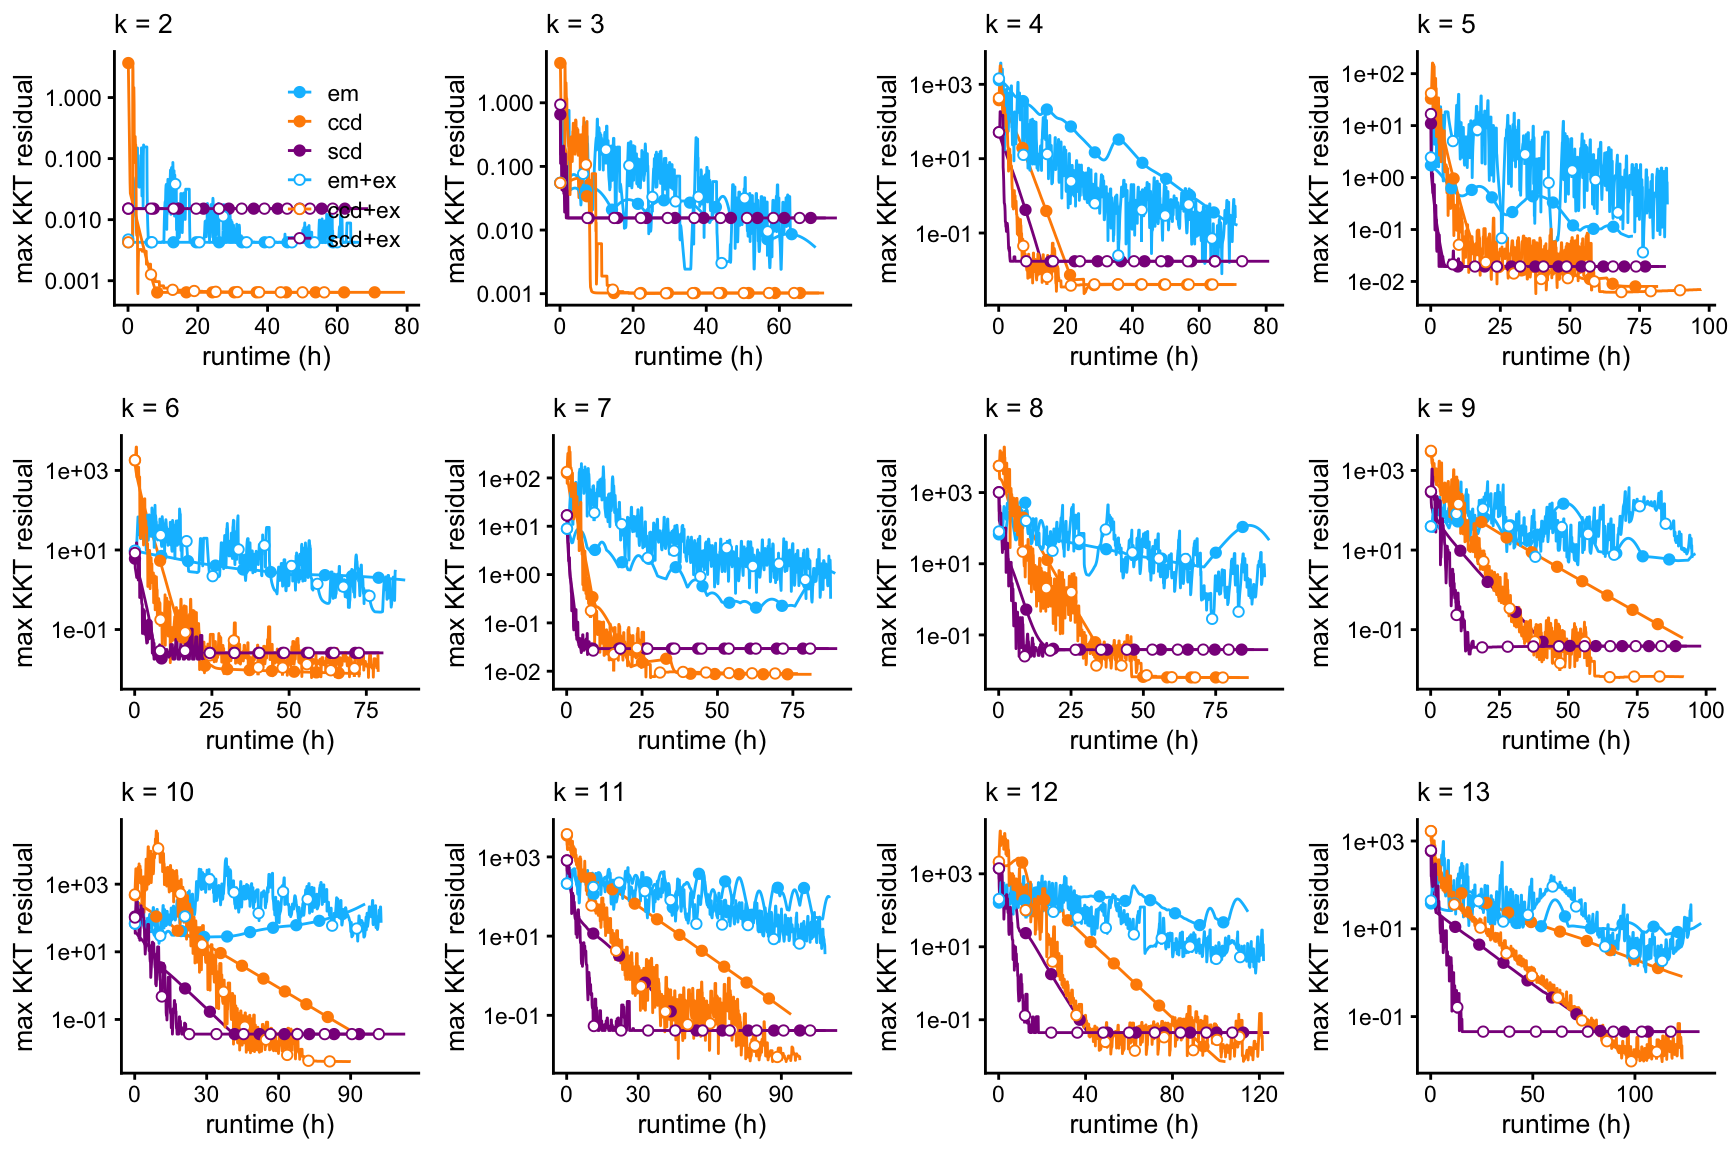
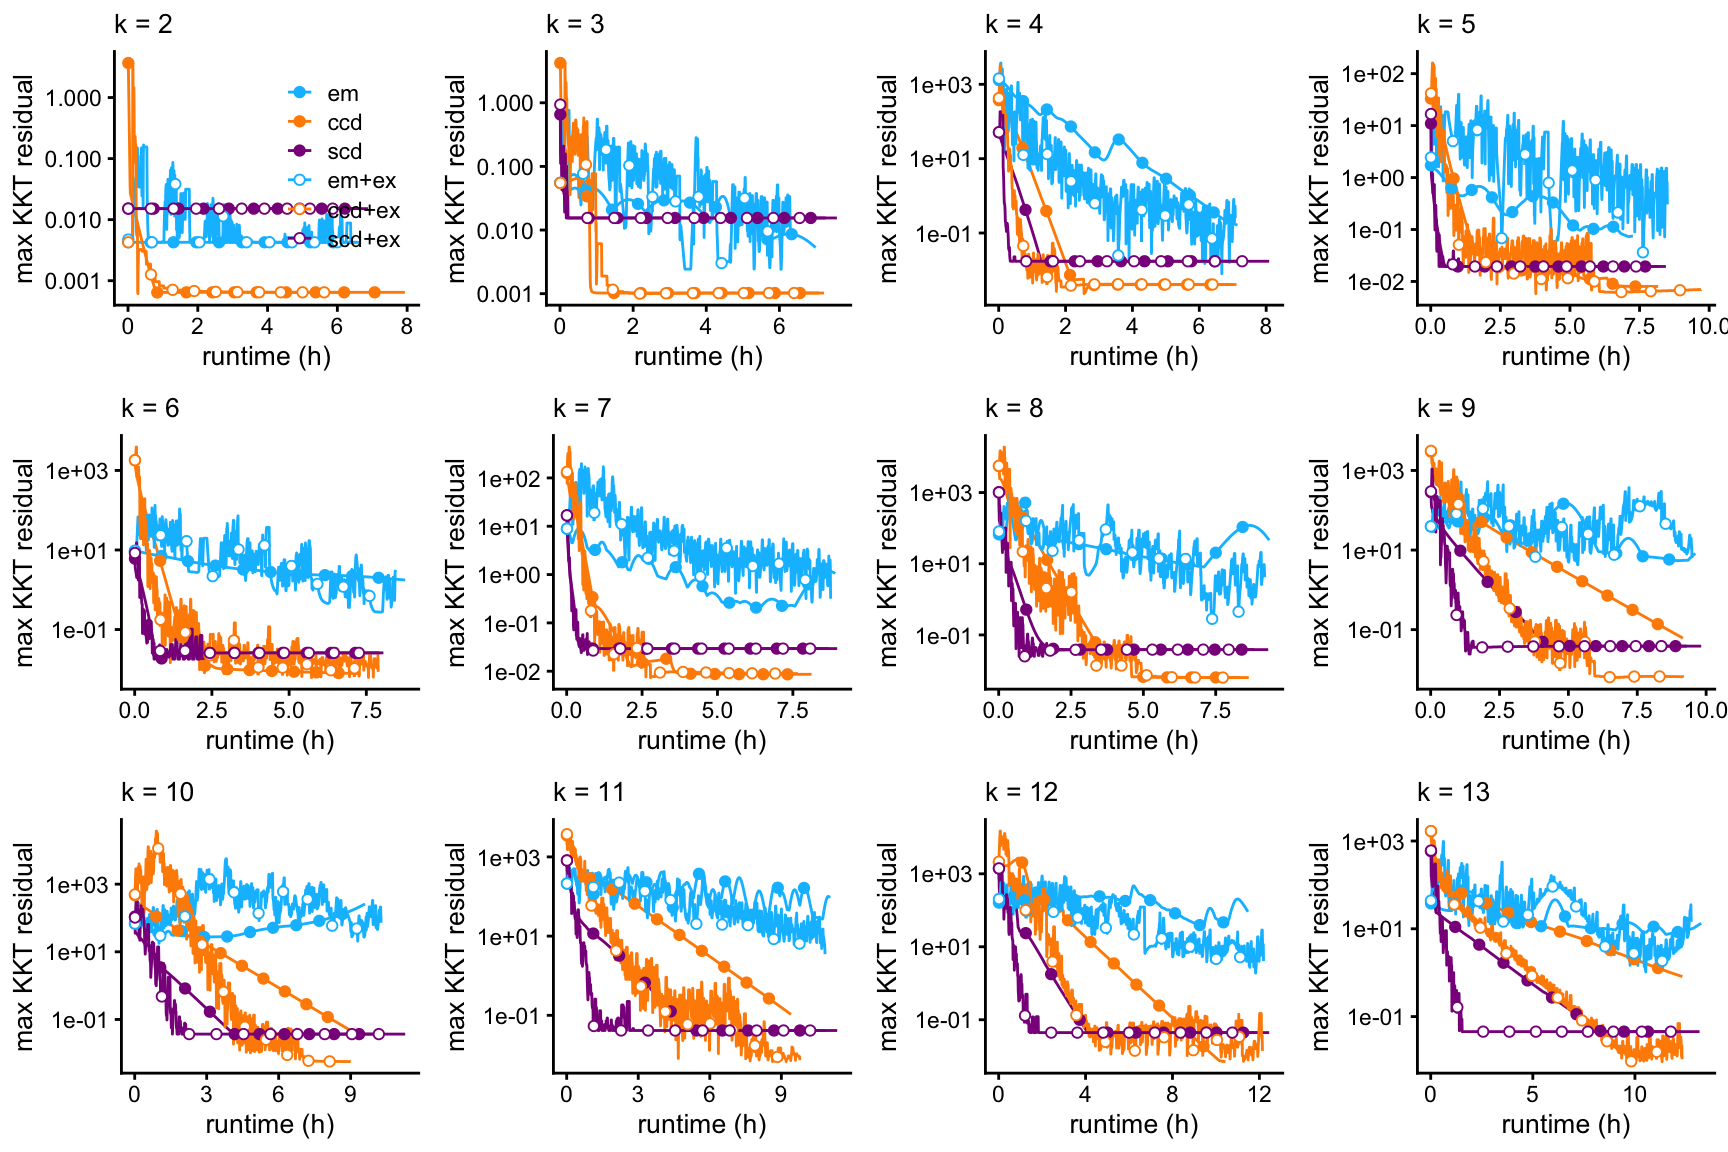
Re-ran assess_fits_pulseseq analysis with fix to timings reported in X axes.

diff --git a/docs/assess_fits_pulseseq.html b/docs/assess_fits_pulseseq.html
@@ -285,7 +285,9 @@ $(document).ready(function () {
 </li>
       </ul>
       <ul class="nav navbar-nav navbar-right">
-        
+        <li>
+  <a href="https://github.com/stephenslab/single-cell-topics">source</a>
+</li>
       </ul>
     </div><!--/.nav-collapse -->
   </div><!--/.container -->
@@ -321,7 +323,7 @@ $(document).ready(function () {
 <div class="tab-content">
 <div id="summary" class="tab-pane fade in active">
 <p>
-<strong>Last updated:</strong> 2020-08-10
+<strong>Last updated:</strong> 2020-08-31
 </p>
 <p>
 <strong>Checks:</strong> <span class="glyphicon glyphicon-ok text-success" aria-hidden="true"></span> 7 <span class="glyphicon glyphicon-exclamation-sign text-danger" aria-hidden="true"></span> 0
@@ -412,26 +414,38 @@ This reproducible <a href="http://rmarkdown.rstudio.com">R Markdown</a> analysis
 <div class="panel panel-default">
 <div class="panel-heading">
 <p class="panel-title">
-<a data-toggle="collapse" data-parent="#workflowr-checks" href="#strongRepositoryversionstrongahrefhttpsgithubcomstephenslabsinglecelltopicstree3b6d17f75b60b52eced52744b4193b93655034fdtargetblank3b6d17fa"> <span class="glyphicon glyphicon-ok text-success" aria-hidden="true"></span> <strong>Repository version:</strong> <a href="https://github.com/stephenslab/single-cell-topics/tree/3b6d17f75b60b52eced52744b4193b93655034fd" target="_blank">3b6d17f</a> </a>
+<a data-toggle="collapse" data-parent="#workflowr-checks" href="#strongRepositoryversionstrongahrefhttpsgithubcomstephenslabsinglecelltopicstreeca16b97e4672c55026546ecd6d1f12730e500ff8targetblankca16b97a"> <span class="glyphicon glyphicon-ok text-success" aria-hidden="true"></span> <strong>Repository version:</strong> <a href="https://github.com/stephenslab/single-cell-topics/tree/ca16b97e4672c55026546ecd6d1f12730e500ff8" target="_blank">ca16b97</a> </a>
 </p>
 </div>
[2 lines of base64/hex data omitted]
 <div class="panel-body">
 <p>
 Great! You are using Git for version control. Tracking code development and connecting the code version to the results is critical for reproducibility.
 </p>
 <p>
-The results in this page were generated with repository version <a href="https://github.com/stephenslab/single-cell-topics/tree/3b6d17f75b60b52eced52744b4193b93655034fd" target="_blank">3b6d17f</a>. See the <em>Past versions</em> tab to see a history of the changes made to the R Markdown and HTML files.
+The results in this page were generated with repository version <a href="https://github.com/stephenslab/single-cell-topics/tree/ca16b97e4672c55026546ecd6d1f12730e500ff8" target="_blank">ca16b97</a>. See the <em>Past versions</em> tab to see a history of the changes made to the R Markdown and HTML files.
 </p>
 <p>
 Note that you need to be careful to ensure that all relevant files for the analysis have been committed to Git prior to generating the results (you can use <code>wflow_publish</code> or <code>wflow_git_commit</code>). workflowr only checks the R Markdown file, but you know if there are other scripts or data files that it depends on. Below is the status of the Git repository when the results were generated:
 </p>
 <pre><code>
 Ignored files:
+    Ignored:    data/droplet.RData
+    Ignored:    data/pbmc_68k.RData
+    Ignored:    data/pbmc_purified.RData
+    Ignored:    data/pulseseq.RData
     Ignored:    output/droplet/fits-droplet.RData
+    Ignored:    output/droplet/rds/
     Ignored:    output/pbmc-68k/fits-pbmc-68k.RData
+    Ignored:    output/pbmc-68k/rds/
     Ignored:    output/pbmc-purified/fits-pbmc-purified.RData
+    Ignored:    output/pbmc-purified/rds/
     Ignored:    output/pulseseq/fits-pulseseq.RData
+    Ignored:    output/pulseseq/rds/
+
+Unstaged changes:
+    Modified:   analysis/plots_pbmc.Rmd
+    Modified:   code/functions_for_assessing_fits.R
 
 </code></pre>
 <p>
@@ -470,6 +484,40 @@ Message
 </tr>
 </thead>
 <tbody>
+<tr>
+<td>
+html
+</td>
+<td>
+<a href="https://rawcdn.githack.com/stephenslab/single-cell-topics/9ff3d7d880267d332cc4b59c86cea5f7363fa39b/docs/assess_fits_pulseseq.html" target="_blank">9ff3d7d</a>
+</td>
+<td>
+Peter Carbonetto
+</td>
+<td>
+2020-08-10
+</td>
+<td>
+Revised text in assess_fits_pulseseq analysis.
+</td>
+</tr>
+<tr>
+<td>
+html
+</td>
+<td>
+<a href="https://rawcdn.githack.com/stephenslab/single-cell-topics/647ca8121f18bc14fffec6f6bfc99886e0f8bfed/docs/assess_fits_pulseseq.html" target="_blank">647ca81</a>
+</td>
+<td>
+Peter Carbonetto
+</td>
+<td>
+2020-08-10
+</td>
+<td>
+Revised text in assess_fits_pulseseq analysis.
+</td>
+</tr>
 <tr>
 <td>
 Rmd
@@ -685,7 +733,7 @@ Peter Carbonetto
 <pre class="r"><code>sessionInfo()
 # R version 3.6.2 (2019-12-12)
 # Platform: x86_64-apple-darwin15.6.0 (64-bit)
-# Running under: macOS Catalina 10.15.5
+# Running under: macOS Catalina 10.15.6
 # 
 # Matrix products: default
 # BLAS:   /Library/Frameworks/R.framework/Versions/3.6/Resources/lib/libRblas.0.dylib
@@ -698,10 +746,10 @@ Peter Carbonetto
 # [1] stats     graphics  grDevices utils     datasets  methods   base     
 # 
 # other attached packages:
-# [1] cowplot_1.0.0      ggplot2_3.3.0      fastTopics_0.3-145
+# [1] cowplot_1.0.0      ggplot2_3.3.0      fastTopics_0.3-165
 # 
 # loaded via a namespace (and not attached):
-#  [1] ggrepel_0.9.0        Rcpp_1.0.3           lattice_0.20-38     
+#  [1] ggrepel_0.9.0        Rcpp_1.0.5           lattice_0.20-38     
 #  [4] tidyr_1.0.0          prettyunits_1.1.1    assertthat_0.2.1    
 #  [7] zeallot_0.1.0        rprojroot_1.3-2      digest_0.6.23       
 # [10] R6_2.4.1             backports_1.1.5      MatrixModels_0.4-1  
@@ -718,7 +766,7 @@ Peter Carbonetto
 # [43] dplyr_0.8.3          withr_2.1.2          later_1.0.0         
 # [46] MASS_7.3-51.4        grid_3.6.2           jsonlite_1.6        
 # [49] gtable_0.3.0         lifecycle_0.1.0      git2r_0.26.1        
-# [52] magrittr_1.5         scales_1.1.0         RcppParallel_4.4.4  
+# [52] magrittr_1.5         scales_1.1.0         RcppParallel_5.0.2  
 # [55] stringi_1.4.3        farver_2.0.1         fs_1.3.1            
 # [58] promises_1.1.0       vctrs_0.2.1          tools_3.6.2         
 # [61] glue_1.3.1           purrr_0.3.3          hms_0.5.2           
